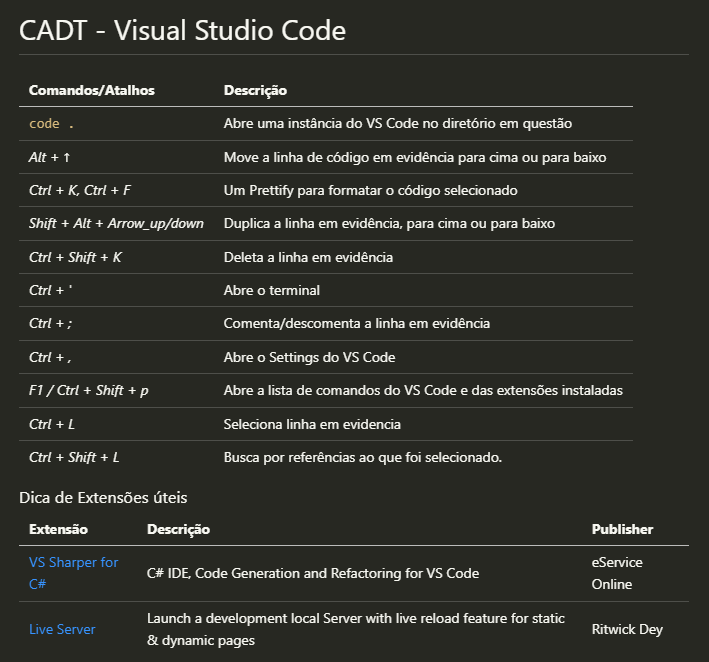
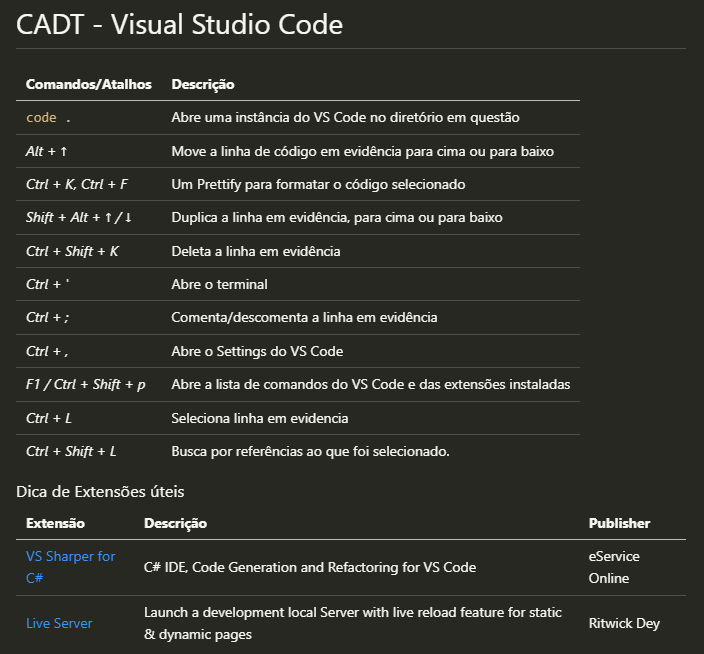
example.png atualizada

diff --git a/VS Code/README.md b/VS Code/README.md
@@ -6,7 +6,7 @@ Comandos/Atalhos | Descrição
 `code .`| Abre uma instância do VS Code no diretório em questão
 _Alt + &#8593;_| Move a linha de código em evidência para cima ou para baixo
 _Ctrl + K, Ctrl + F_ | Um Prettify para formatar o código selecionado
-_Shift + Alt + Arrow_up/down_ | Duplica a linha em evidência, para cima ou para baixo
+_Shift + Alt + &#8593; / &#8595;_ | Duplica a linha em evidência, para cima ou para baixo
 _Ctrl + Shift + K_ | Deleta a linha em evidência
 _Ctrl + '_ | Abre o terminal
 _Ctrl + ;_ | Comenta/descomenta a linha em evidência
